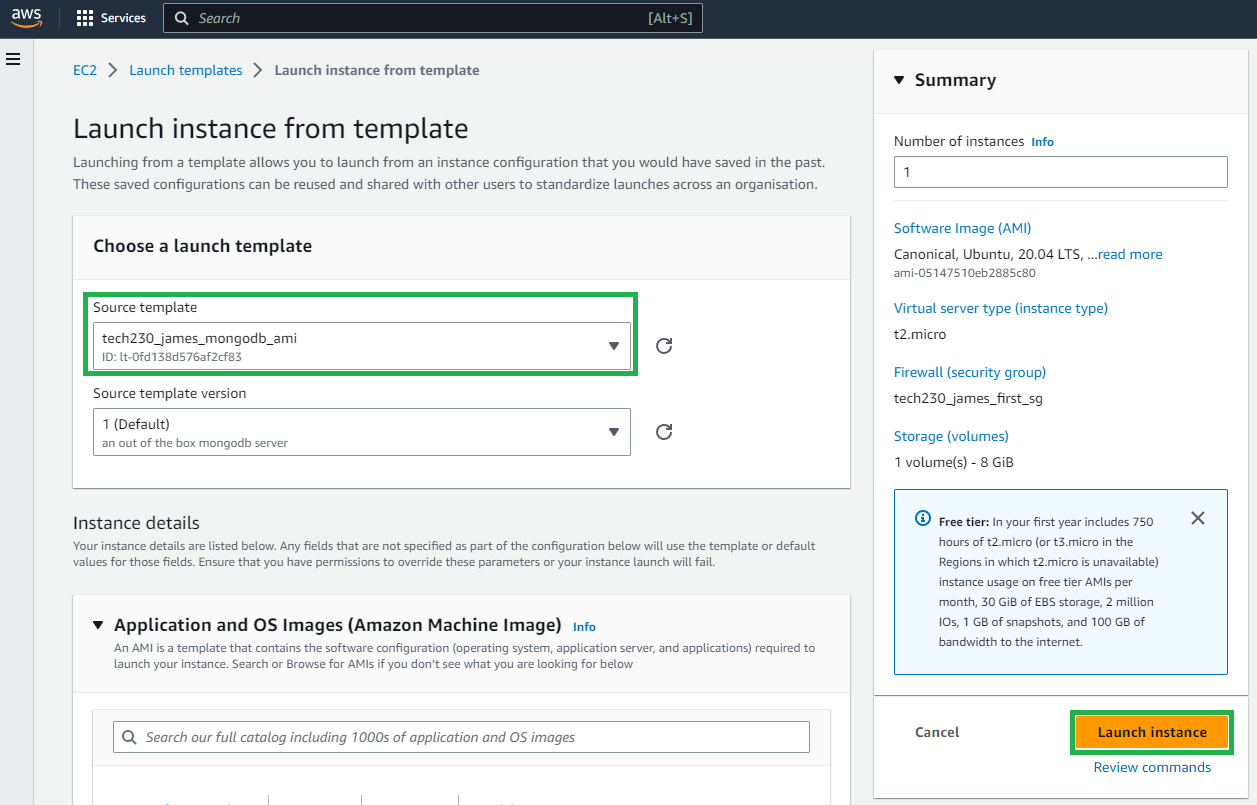
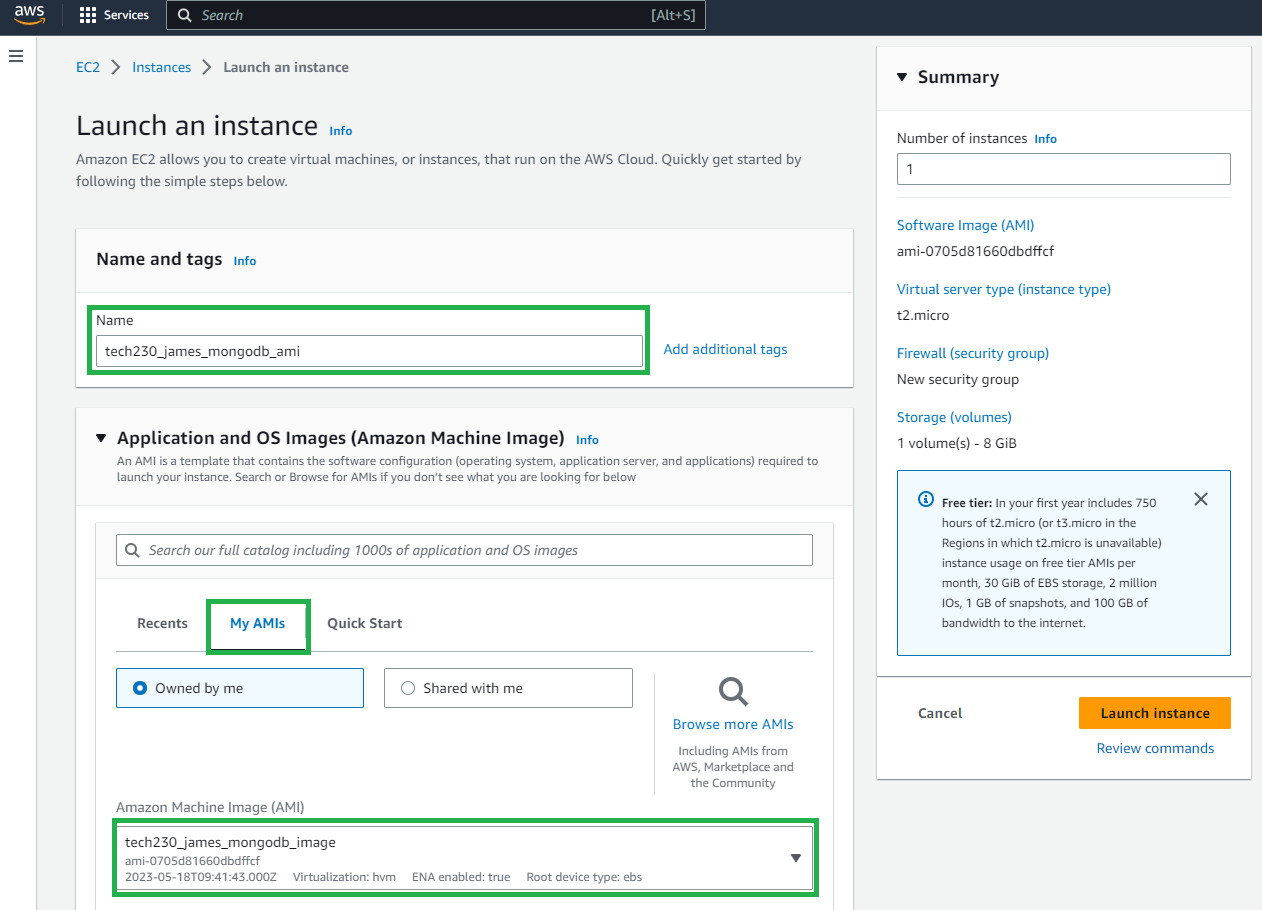
third commit

diff --git a/ec2_app_deployment.md b/ec2_app_deployment.md
@@ -102,3 +102,101 @@ pm2 start app.js
 16. The application should now be available on the web browser with the Public IPv4 address and port number, in this example `3000`. 
 
 ![](app_final.PNG)
+
+### **Deploying a two-tier architecture**
+
+1. Ensure there are first two launch templates for `application` and `MongoDB`; if required, create a `MongoDB` template following this [tutorial](https://github.com/PutuJem/tech230_AWS/blob/main/ec2_mongodb_ami.md).
+
+2. Before launching the instances, review the `security group` used and add an additional inbound rule to allow communication between the two instances. The port to communicate with `MongoDB` is 27017 and allow any IP address to connect (`0.0.0.0/0`).
+
+3. Launch the two instances, for the `application` and `MongoDB`.
+
+4. Firstly, configure the MongoDB instance through initially connecting to the instance with the `ssh` command found in the connect section of the instance summary on AWS.
+
+>The `ssh` command should be displayed as the following; reminder to change directory `cd` into the `.ssh` folder or change the key route to `"~/.ssh/<key_file_name>.pem"`.
+
+```bash
+ssh -i "~/.ssh/tech230.pem" ubuntu@ec2-34-244-128-22.eu-west-1.compute.amazonaws.com
+```
+
+5. Amend the instances network interfaces to allow the application to connect, do this by accessing the file then changing the `bindIP` to `0.0.0.0/0`.
+
+>Reminder to uncomment the port number, if required.
+
+```bash
+sudo nano /etc/mongodb.conf
+```
+
+6. Restart and re-enable the database to realise these changes:
+
+```bash
+sudo systemctl restart mongod
+```
+
+```bash
+sudo systemctl enable mongod
+```
+
+7. Secondly, configure the application; create a new terminal and ensure the application folder has been transferred on to the application instance; if already complete, skip this step.
+
+>An example of the secure copy command.
+
+```bash
+scp -i "~/.ssh/tech230.pem" -r app ubuntu@ec2-34-255-2-50.eu-west-1.compute.amazonaws.com:/home/ubuntu
+```
+
+8. Connect to the application instance with the `ssh` command found in the connect section of the instance summary on AWS.
+
+>An example of the ssh command.
+
+```bash
+ssh -i "~/.ssh/tech230.pem" ubuntu@ec2-34-255-2-50.eu-west-1.compute.amazonaws.com
+```
+
+9. Proceed to adding the environment variable through the `.bashrc` file.
+
+```bash
+sudo nano .bashrc
+```
+
+10. Add the following export command to the end of the script.
+
+>Add the Private IPv4 address as shown in the application instance summary.
+
+```bash
+export DB_HOST=mongodb://<private_IP_address>:27017/posts
+```
+
+11. Read and execute the .bashrc file.
+
+```bash
+Source .bashrc
+```
+
+12. Navigate to the app folder (there may be two app directories to cd into).
+
+```bash
+cd app
+```
+
+13. Install the package manager `npm`.
+
+>If admin rights are required, try `sudo apt install npm`. Additionally, check if `node seeds/seed/js` has been performed in the terminal, else enter it in as a command.
+
+```bash
+npm install
+```
+
+14. Run the application.
+
+>If the posts page is not being displayed in the next step, restart the application using `pm2 stop app.js` then running `pm2 start app.js --update-env` to update the environment variables
+
+```bash
+pm2 start app.js
+```
+
+15. Check to see if the application is running with the posts page by the `public IPv4 address` and `/posts`.
+
+>For example, `34.255.2.50/posts`
+
+![final page](tier_final.PNG)

diff --git a/reverse_proxy_automation.md b/reverse_proxy_automation.md
@@ -1,0 +1,118 @@
+
+# Automating a reverse proxy and application start-up
+
+Create a new instance of the application image; ensure use the correct naming convention, key pair `tech230.pem` and security group.
+
+Enter the instance through a new git bash terminal using the ssh command provided in the connect section of the instance summary.
+
+>An example of this is shown below.
+
+```bash
+ssh -i "~/.ssh/tech230.pem" root@ec2-3-253-80-245.eu-west-1.compute.amazonaws.com
+```
+
+Check the files already present with in the instance.
+
+```bash
+ls
+```
+
+Create a new provision file to include a script to setup the reverse proxy and start the application.
+
+```bash
+touch app-provision.sh
+```
+
+Check the user rights and ensure the user is able to execute files.
+
+```bash
+ls -l
+```
+
+```bash
+chmod u+x app-provision.sh
+```
+
+> Once the file turns green, the user is able to excute.
+
+![ls page](ls.png)
+
+To setup the automation script, first enter the file.
+
+```bash
+sudo nano app-provision.sh
+```
+
+Secondly, paste the script below into the `app-provision.sh` file.
+
+> The script provides comments with instructions on what each command accomplishes.
+
+```bash
+#!/bin/bash
+
+# Update and upgrade the package manager.
+
+sudo apt-get update -y
+
+sudo apt-get upgrade -y
+
+# Install the Nginx web server.
+
+sudo apt-get install nginx -y
+
+# Overwrite the contents of the default configuration file and output the new file contents.
+
+echo "
+server {
+    listen 80 default_server;
+    listen [::]:80 default_server;
+
+    root /var/www/html;
+
+    server_name _;
+
+    location / {
+        proxy_pass http://localhost:3000;
+        proxy_http_version 1.1;
+        proxy_set_header Upgrade \$http_upgrade;
+        proxy_set_header Connection 'upgrade';
+        proxy_set_header Host \$host;
+        proxy_cache_bypass \$http_upgrade;
+    }
+
+    location /posts {
+        proxy_pass http://localhost:3000/posts;
+        proxy_http_version 1.1;
+        proxy_set_header Upgrade \$http_upgrade;
+        proxy_set_header Connection 'upgrade';
+        proxy_set_header Host \$host;
+        proxy_cache_bypass \$http_upgrade;
+    }
+}" | sudo tee /etc/nginx/sites-available/default
+
+# Start the Nginx web server; remember to use the `enable` to enable a service on next system restart.
+
+sudo systemctl stop nginx 
+
+sudo systemctl start nginx
+
+sudo systemctl enable nginx
+
+# Navigate to the app folder
+
+cd app/app
+
+# Run the application
+
+pm2 start app.js
+```
+
+Save and exit the file using `ctrl+x`.
+
+Then run the script.
+
+```bash
+sudo nano app-provision.sh
+```
+
+Navigate to the web browser and enter the IPv4 address.

diff --git a/ec2_mongodb_ami.md b/ec2_mongodb_ami.md
@@ -36,19 +36,15 @@
 
 ### **Creating an AMI from the MongoDB instance**
 
-9. To create the AMI, highlight the MongoDB instance and navigate through `actions`, `image and templates` then select `create template from instance`.
+9. To create the AMI, highlight the MongoDB instance and navigate through `actions`, `image and templates` then select `create image`.
 
 ![](mongo_template0.png)
 
 10. Suitably name the template following the instance naming convention and enter an appropriate description. Finally, launch the template.
 
-![](mongo_template.png)
+11. Check the AMI works through launching an instance, as per `step 1`.
 
-11. Check the AMI works through creating a new `instance from templates`.
-
-![](mongo_launchtemplate.png)
-
-12. Select the AMI image that was recently created.
+12. Follow the naming convention outlined `step 2` for the AMI and select `My AMIs` followed by the AMI that was just created. Additional, ensure the correct key pay and security group are also selected.
 
 ![](mongo_launchtemplate2.png)
 
